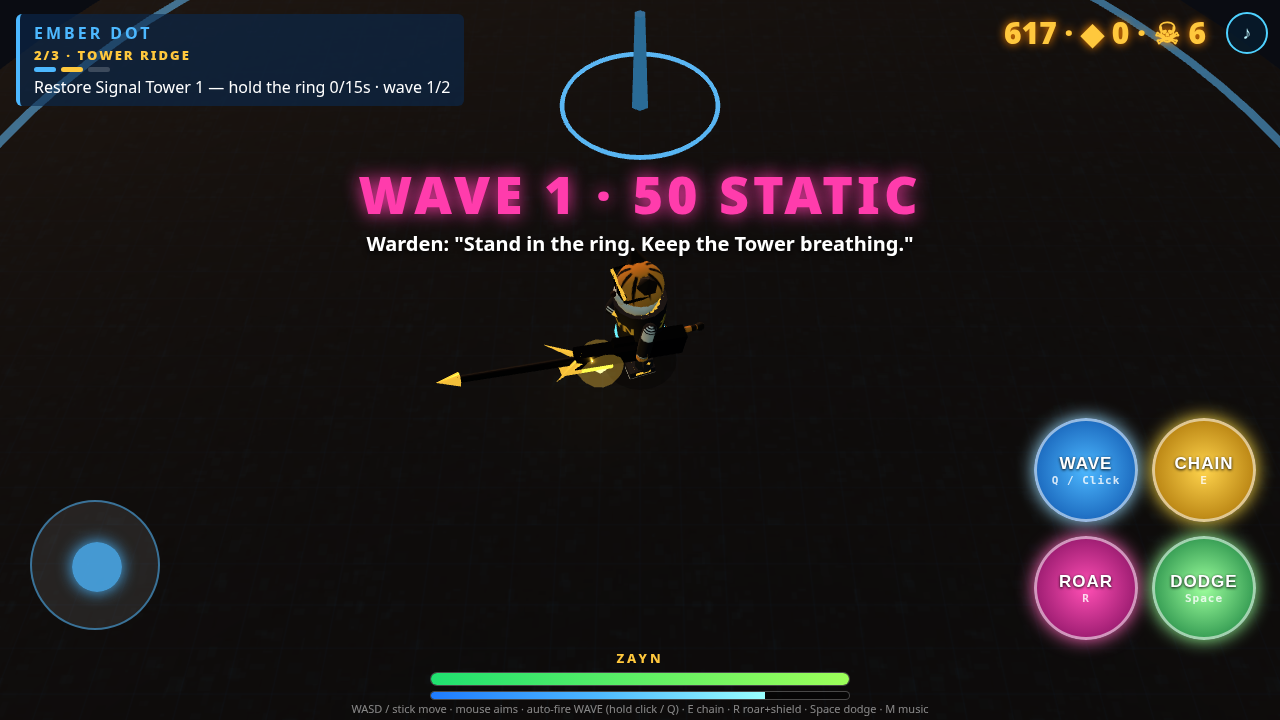
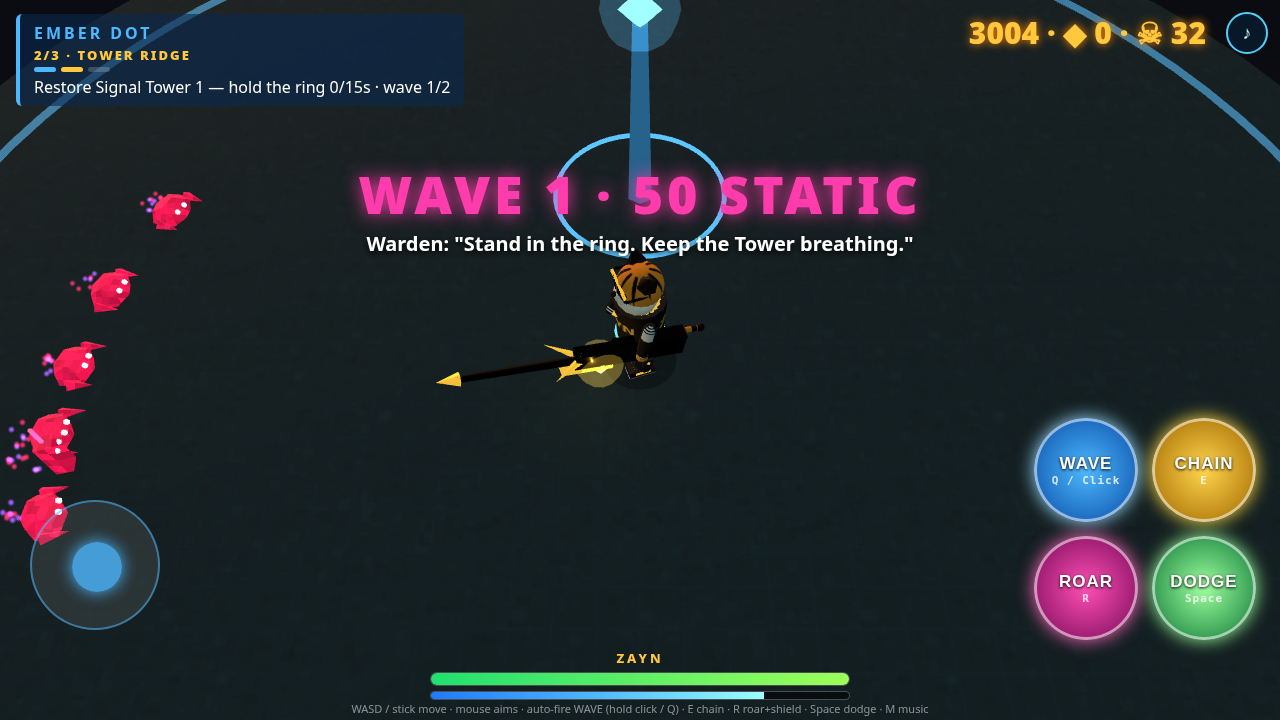
Ember section silhouette pass: lifted ground value, sand Shore, taller Signal Tower w/ sky-blue emissive core, distinct ember Crater + hard red edge, Brute dark chrome + red candle emissive only; color rules doc

diff --git a/public/game.js b/public/game.js
@@ -173,7 +173,7 @@ const boat = new THREE.Group();
 // ===== isometric arena: muted dark floor so FX pop =====
 const ARENA = 40;
 const keep = new Set([ocean, pts, sky, zayn, boat]); const decor = scene.children.filter(o => !o.isLight && !keep.has(o));
-const floorTex = canvasTex(512, 512, (x, w, h) => { x.fillStyle = '#23242b'; x.fillRect(0, 0, w, h);
+const floorTex = canvasTex(512, 512, (x, w, h) => { x.fillStyle = '#6a6b70'; x.fillRect(0, 0, w, h);
   for (let i = 0; i < 900; i++) { x.fillStyle = `rgba(${Math.random() < .5 ? '255,255,255' : '0,0,0'},${Math.random() * .05})`; x.fillRect(Math.random() * w, Math.random() * h, 3 + Math.random() * 18, 3 + Math.random() * 18); }
   x.strokeStyle = 'rgba(77,184,255,.08)'; x.lineWidth = 2; for (let i = 0; i <= 8; i++) { x.beginPath(); x.moveTo(i * 64, 0); x.lineTo(i * 64, h); x.moveTo(0, i * 64); x.lineTo(w, i * 64); x.stroke(); } });
 floorTex.wrapS = floorTex.wrapT = THREE.RepeatWrapping; floorTex.repeat.set(6, 6);
@@ -182,7 +182,8 @@ let floorM, edgeM, tower;
 { const f = new THREE.Mesh(new THREE.CircleGeometry(ARENA + 6, 64), new THREE.MeshStandardMaterial({ map: floorTex, roughness: 1 })); f.rotation.x = -Math.PI / 2; f.position.y = .32; arena.add(f); floorM = f.material;
   const edge = new THREE.Mesh(new THREE.TorusGeometry(ARENA + 1, .25, 6, 96), glow(SKY)); edge.rotation.x = Math.PI / 2; edge.position.y = .4; edge.material.opacity = .5; arena.add(edge); edgeM = edge.material;
   tower = new THREE.Group(); const tr = new THREE.Mesh(new THREE.TorusGeometry(5, .15, 6, 48), glow(SKY)); tr.rotation.x = Math.PI / 2; tr.position.y = .45;
-  const pole = new THREE.Mesh(new THREE.CylinderGeometry(.35, .6, 7, 6), new THREE.MeshStandardMaterial({ color: 0x1b2230, emissive: SKY, emissiveIntensity: .3 })); pole.position.y = 3.5; tower.add(tr, pole); tower.position.set(0, 0, -14); tower.visible = false; arena.add(tower); }
+  const pole = new THREE.Mesh(new THREE.CylinderGeometry(.45, .8, 12, 6), new THREE.MeshStandardMaterial({ color: 0x1b2230, emissive: SKY, emissiveIntensity: .25 })); pole.position.y = 6;
+  const tcore = new THREE.Mesh(new THREE.OctahedronGeometry(1.1, 0), M(SKY, 3.5)); tcore.position.y = 12.8; const tglow = new THREE.Mesh(new THREE.SphereGeometry(2, 10, 8), glow(SKY)); tglow.material.opacity = .25; tglow.position.y = 12.8; tower.add(tr, pole, tcore, tglow); tower.userData.core = tcore; tower.position.set(0, 0, -9); tower.visible = false; arena.add(tower); }
 arena.visible = false; scene.add(arena);
 
 // ===== shared Static shader (red-magenta, noise flicker) =====
@@ -209,13 +210,15 @@ const crabBody = new THREE.InstancedMesh(new THREE.DodecahedronGeometry(1, 0).sc
 const crabClaw = new THREE.InstancedMesh(new THREE.ConeGeometry(.35, 1.2, 4).rotateX(Math.PI / 2), STATIC, MAXC * 2);
 for (const im of [crabBody, crabClaw]) { im.count = 0; im.frustumCulled = false; im.instanceMatrix.setUsage(THREE.DynamicDrawUsage); scene.add(im); }
 const crabEyes = new THREE.InstancedMesh(new THREE.SphereGeometry(.16, 6, 4), new THREE.MeshBasicMaterial({ color: 0xffffff }), MAXC * 2); crabEyes.count = 0; crabEyes.frustumCulled = false; scene.add(crabEyes);
+const BRUTE_CHROME = new THREE.MeshStandardMaterial({ color: 0x2a2d34, metalness: .95, roughness: .28, emissive: 0x08090c });
 function makeMesh(type) {
   const g = new THREE.Group();
   if (type === 'wick') { const b = new THREE.Mesh(new THREE.BoxGeometry(.8, 2.2, .8), STATIC_SOLID); b.position.y = 1.5; g.add(b);
     const w = new THREE.Mesh(new THREE.BoxGeometry(.14, 1.1, .14), glow(0xff5a8a)); w.position.y = 3.2; g.add(w); }
-  if (type === 'brute') { const b = new THREE.Mesh(new THREE.BoxGeometry(2.6, 4.4, 2.2), STATIC_SOLID); b.position.y = 2.6; g.add(b);
-    const wick = new THREE.Mesh(new THREE.BoxGeometry(.4, 2, .4), glow(0xff2a5a)); wick.position.y = 5.8; g.add(wick);
-    for (const s of [-1, 1]) { const a = new THREE.Mesh(new THREE.BoxGeometry(1, 2.6, 1), STATIC_SOLID); a.position.set(s * 1.9, 2.4, 0); g.add(a); } }
+  if (type === 'brute') { const b = new THREE.Mesh(new THREE.BoxGeometry(2.6, 4.4, 2.2), BRUTE_CHROME); b.position.y = 2.6; g.add(b);
+    const wick = new THREE.Mesh(new THREE.BoxGeometry(.5, 2.4, .5), M(0xff1a10, 3)); wick.position.y = 6; g.add(wick); const cf = new THREE.Mesh(new THREE.ConeGeometry(.35, .9, 6), glow(0xff3a10)); cf.position.y = 7.6; g.add(cf);
+    const seam = new THREE.Mesh(new THREE.BoxGeometry(2.66, .25, 2.26), M(0xff1a10, 2.5)); seam.position.y = 3.4; g.add(seam);
+    for (const s of [-1, 1]) { const a = new THREE.Mesh(new THREE.BoxGeometry(1, 2.6, 1), BRUTE_CHROME); a.position.set(s * 1.9, 2.4, 0); g.add(a); } }
   for (const s of [-1, 1]) { const e = new THREE.Mesh(new THREE.SphereGeometry(.15, 6, 4), new THREE.MeshBasicMaterial({ color: 0xffffff })); e.position.set(s * .25, type === 'brute' ? 4 : 2.1, type === 'brute' ? 1.15 : .42); g.add(e); }
   scene.add(g); return g;
 }
@@ -270,11 +273,11 @@ const rep = (t, n) => Array(n).fill(t);
 const mix = w => w.sort(() => Math.random() - .5);
 // Mission 01 is cut into 3 sectioned levels on the Ember Dot island; each has its own tint, objective and wave plan
 const SECTIONS = [
-  { name: 'SHORE LANDING', obj: 'Clear the beach', floor: 0x8a7458, edge: 0xff3cac, line: 'Warden: "Those are crabs. Ugly. Easy. Hit them."',
+  { name: 'SHORE LANDING', obj: 'Clear the beach', floor: 0xc9ad84, edge: 0xffd08a, line: 'Warden: "Those are crabs. Ugly. Easy. Hit them."',
     waves: () => [mix(rep('crab', 24)), mix([...rep('crab', 30), ...rep('wick', 10)])] },
-  { name: 'TOWER RIDGE', obj: 'Restore Signal Tower 1', floor: 0x4c7f8a, edge: 0x4DB8FF, hold: 15, line: 'Warden: "Stand in the ring. Keep the Tower breathing."',
+  { name: 'TOWER RIDGE', obj: 'Restore Signal Tower 1', floor: 0x3e7680, edge: 0x4DB8FF, hold: 15, line: 'Warden: "Stand in the ring. Keep the Tower breathing."',
     waves: () => [mix([...rep('crab', 36), ...rep('wick', 14)]), mix([...rep('crab', 44), ...rep('wick', 22)])] },
-  { name: 'CRATER GATE', obj: 'Defeat the Red Candle Brute', floor: 0x8a4a46, edge: 0xff2a3a, line: 'Brute: "…LIQUIDATE…"',
+  { name: 'CRATER GATE', obj: 'Defeat the Red Candle Brute', floor: 0x9a3a1a, edge: 0xff1a1a, line: 'Brute: "…LIQUIDATE…"',
     waves: () => [mix([...rep('crab', 30), ...rep('wick', 20)]), ['brute', ...mix([...rep('crab', 40), ...rep('wick', 16)])]] },
 ];
 let WAVES = [];
@@ -306,7 +309,7 @@ function secHud() { const c = SECTIONS[S.sec]; $('#secName').textContent = `${S.
 function startSection(i, fromBoat = false) { // entering a section: (fade already black) reset field, tint ground, fade in, banner card
   const c = SECTIONS[i]; clearField(); waves.length = 0; S.sec = i; S.wave = 0; S.hold = 0; S.spawnQ = []; S.waveNext = 0; S.secDone = false; WAVES = c.waves();
   S.hp = 100; S.iframes = 1.5; S.buff = 0; S.cd = { wave: 0, chain: 0, roar: 0, dodge: 0 }; if (fromBoat) Object.assign(S, { en: 40, score: 0, kills: 0, xp: 0 }); else S.en = Math.max(S.en, 40);
-  floorM.color.set(c.floor); edgeM.color.set(c.edge); tower.visible = !!c.hold; zayn.position.set(0, .3, c.hold ? 6 : 0); S.secStart = { score: S.score, kills: S.kills, xp: S.xp }; secHud();
+  floorM.color.set(c.floor); edgeM.color.set(c.edge); tower.visible = !!c.hold; zayn.position.set(0, .3, c.hold ? 3 : 0); S.secStart = { score: S.score, kills: S.kills, xp: S.xp }; secHud();
   setTimeout(() => { fade(0); S.mode = 'play'; banner(fromBoat ? 'MISSION 01 · EMBER DOT' : `SECTION ${i + 1} · ${c.name}`, '#4DB8FF');
     setTimeout(() => { if (S.sec === i && S.mode === 'play') { banner(c.name, '#ffc83d'); $('#line').textContent = c.line; $('#line').style.opacity = 1; setTimeout(() => $('#line').style.opacity = 0, 3200); } }, 1500);
     setTimeout(() => { if (S.sec === i && S.mode === 'play' && !S.wave) nextWave(); }, 2600); }, 600); }
@@ -417,7 +420,7 @@ function tick(now) {
       let sp = 12 * ml; if (S.dodge > 0) { sp = 44; S.dodge -= dt; if (ml < .1) mv.copy(aimDir()); burst(zayn.position.clone().setY(1.5), [0x3ef2ff, 0xffffff], 5, 2, 1, 0); }
       zayn.position.add(mv.multiplyScalar(sp * dt)); zayn.position.y = .3; const pl = Math.hypot(zayn.position.x, zayn.position.z); if (pl > ARENA) { zayn.position.x *= ARENA / pl; zayn.position.z *= ARENA / pl; }
       let dy = S.yaw - zayn.rotation.y; dy = Math.atan2(Math.sin(dy), Math.cos(dy)); zayn.rotation.y += dy * Math.min(1, dt * 18);
-      const ud = zayn.userData, w = ml > .1 ? Math.sin(S.t * 14) * .6 : 0; ud.legL.rotation.x = w; ud.legR.rotation.x = -w; ud.tail.rotation.z = Math.sin(S.t * 3) * .25; ud.core.rotation.y += dt * 3;
+      const ud = zayn.userData, w = ml > .1 ? Math.sin(S.t * 14) * .6 : 0; ud.legL.rotation.x = w; ud.legR.rotation.x = -w; ud.tail.rotation.z = Math.sin(S.t * 3) * .25; ud.core.rotation.y += dt * 3; tower.userData.core.rotation.y += dt * 1.5;
       S.swing = Math.max(0, S.swing - dt); ud.armR.rotation.x = S.swing > 0 ? -2.2 + (.2 - S.swing) * 16 : -.2 + w * .3;
       for (const k in S.cd) S.cd[k] = Math.max(0, S.cd[k] - dt); S.iframes -= dt; S.buff -= dt; S.en = Math.min(100, S.en + dt * 3);
       // auto-fire WAVE (kite + shoot); mouse hold / Q also fires

diff --git a/docs/DESIGN.md b/docs/DESIGN.md
@@ -34,6 +34,9 @@ Every mission tells one story beat and ends in a payoff (boss, rescue, island cl
 Missions are cut into **3 short sections** on the island instead of one endless fight. Each section has its own ground tint/edge color, objective, Warden/enemy line and wave plan. HUD (top-left) shows `n/3 · SECTION NAME`, a 3-segment progress bar and the live objective.
 - **Clear:** finish the section's waves (+ any hold objective) → "SECTION CLEARED" banner → fade → next section card. HP refills, score/kills/gems carry over.
 - **Fail:** LIQUIDATED → **RETRY SECTION** (restart current section with stats rolled back to section start) or **RUN IT BACK** (full mission from the boat).
+- **Section color rules (art direction):** each section owns its edge ring + ground tint. Static enemies always stay red/magenta; the player stays sky-blue/gold; bosses (Red Candle Brute) are dark chrome with a red-candle emissive only, never crab magenta.
+  - Ember Dot: §1 Shore = lifted sand ground, warm gold edge · §2 Tower Ridge = teal ground, sky edge, tall Signal Tower with emissive sky-blue core · §3 Crater Gate = deep ember-orange ground, hard red edge.
+  - Later islands: Moonleaf Oval = night green; The h = rooftop grey.
 - Mission 01 sections: see [STORY.md](STORY.md#mission-01-section-levels).
 - Damage numbers merge nearby hits (≤3.5m, <0.35s) into one growing number; hard cap 8 visible floats, extras fold into the nearest. Crits stay yellow.
 
